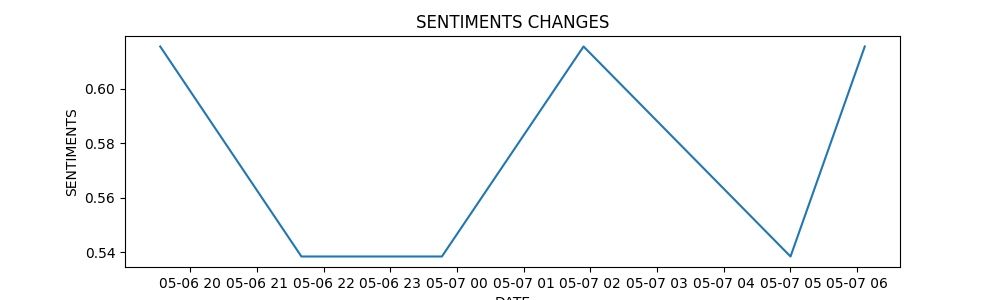
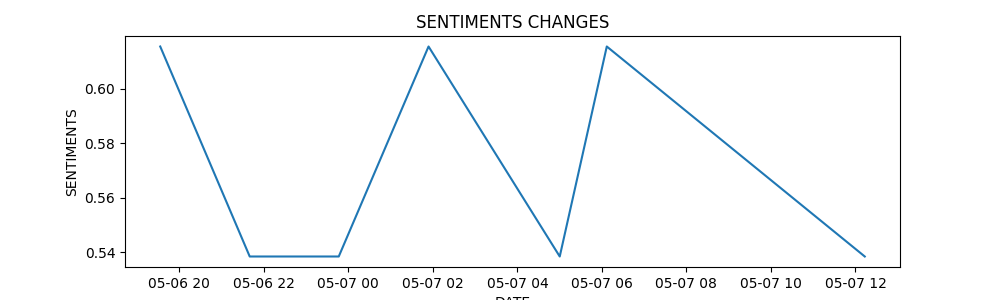
Commit

diff --git a/finance.html b/finance.html
@@ -13,7 +13,7 @@
                 <img style = "width:70px;" src="image/MNAZ.gif" alt="MNAZ Web">
                 <button id="darkModeToggle">Toggle Dark Mode</button>
               </header>
-              <h2>Date: 2023-05-07 06:07:22.070274</h2>
+              <h2>Date: 2023-05-07 12:14:23.559061</h2>
               <div class="container">
                 <div class="half">
                   <h2>News</h2>
@@ -21,9 +21,10 @@
                   <a href = "https://www.investing.com/currencies/usd-jpy-news" target = "_blank">Scraped From Investing.com </a>
                   <ul id="newsList" class="hidden">
                       
-<li style = 'font-weight: bold;'>Buffett upbeat on U.S., Berkshire; faults handling of bank failures<ul><li style = 'font-size: smaller;font-style: italic;'>Positive</li></ul></li>
 <li style = 'font-weight: bold;'>Buffett's Berkshire posts $35.5 billion profit, buys back more stock<ul><li style = 'font-size: smaller;font-style: italic;'>Positive</li></ul></li>
-<li style = 'font-weight: bold;'>Russia blames Ukraine, U.S. for car bomb that wounded writer<ul><li style = 'font-size: smaller;font-style: italic;'>Negative</li></ul></li>
+<li style = 'font-weight: bold;'>Warren Buffett faults handling of bank failures, upbeat on U.S., Berkshire<ul><li style = 'font-size: smaller;font-style: italic;'>Neutral</li></ul></li>
+<li style = 'font-weight: bold;'>Buffett says more comfortable with investments in Japan than Taiwan<ul><li style = 'font-size: smaller;font-style: italic;'>Neutral</li></ul></li>
+<li style = 'font-weight: bold;'>Warren Buffett faults handling of bank failures, upbeat on U.S., Berkshire<ul><li style = 'font-size: smaller;font-style: italic;'>Neutral</li></ul></li>
 <li style = 'font-weight: bold;'>Buffett's Berkshire posts $35.5 billion profit, buys back more stock<ul><li style = 'font-size: smaller;font-style: italic;'>Positive</li></ul></li>
 <li style = 'font-weight: bold;'>Buffett set for 59th shareholder marathon as big questions loom<ul><li style = 'font-size: smaller;font-style: italic;'>Neutral</li></ul></li>
 <li style = 'font-weight: bold;'>Wall Street Week Ahead: U.S. consumer price data to test feared stagflation scenario<ul><li style = 'font-size: smaller;font-style: italic;'>Neutral</li></ul></li>
@@ -33,7 +34,6 @@
 <li style = 'font-weight: bold;'>S&P 500 rides Apple rally, strong jobs data higher<ul><li style = 'font-size: smaller;font-style: italic;'>Positive</li></ul></li>
 <li style = 'font-weight: bold;'>Apple's results send shares surging to nine-month high<ul><li style = 'font-size: smaller;font-style: italic;'>Positive</li></ul></li>
 <li style = 'font-weight: bold;'>Further improvement seen in weak Q1 U.S. earnings forecast -Refinitiv data<ul><li style = 'font-size: smaller;font-style: italic;'>Positive</li></ul></li>
-<li style = 'font-weight: bold;'>European shares rise as energy firms, HSBC boost; end second straight week lower<ul><li style = 'font-size: smaller;font-style: italic;'>Neutral</li></ul></li>
                   </ul>
                 </div>
                 <div class="half">
@@ -44,13 +44,13 @@
                 <p style = 'font-weight:bold;'>ChatGPT SENTIMENTS</p>
                 <ul>
                     <li style = 'font-size: smaller;font-style: italic;'>
-                        Positive: 8
+                        Positive: 7
                     </li>
                     <li style = 'font-size: smaller;font-style: italic;'>
-                        Negative: 1
+                        Negative: 0
                     </li>
                     <li style = 'font-size: smaller;font-style: italic;'>
-                        Neutral: 4
+                        Neutral: 6
                     </li>
                 </ul>
                 <p style = 'font-weight:bold;'>VADER SENTIMENTS</p>
